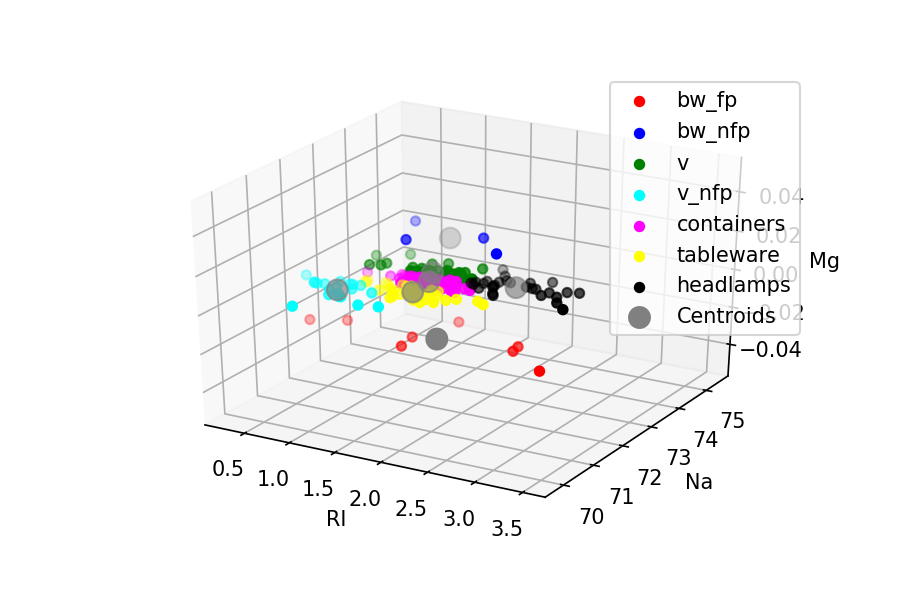
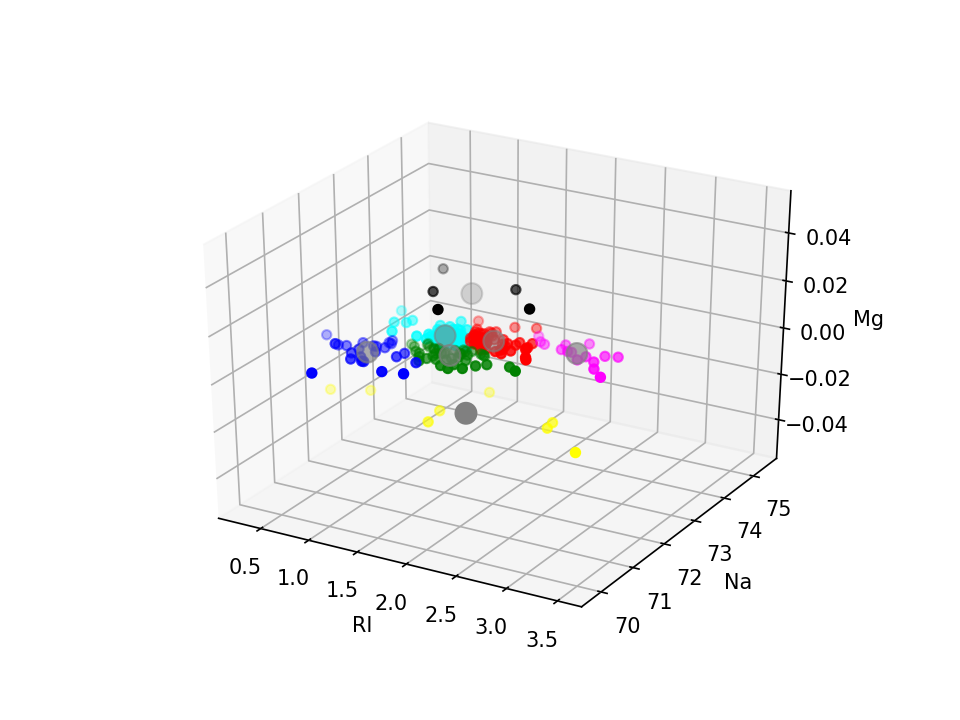
last changes

diff --git a/glassProj/glassApp/views.py b/glassProj/glassApp/views.py
@@ -23,6 +23,8 @@ class KNN:
         self.d_metric = d_metric
         self.d_metric_to_fn = {
             'euclidean': self.euclidean,
+            'manhattan': self.manhattan,
+            'minkowski': self.minkowski
         }
         self.p = p
 
@@ -30,10 +32,19 @@ class KNN:
         self.X = np.copy(X)
         self.y = np.copy(y)
 
+    def manhattan(self, x_test):
+        return np.sum(np.abs(self.X - x_test), axis=-1)
+
     def euclidean(self, x_test):
         sq_diff = (self.X - x_test) ** 2
         return np.sqrt(np.sum(sq_diff, axis=-1))
  
+    def minkowski(self, x_test):
+        abs_diff = np.abs(self.X - x_test)
+        sum_p_diff = np.sum(abs_diff ** self.p, axis=-1)
+        pth_root = sum_p_diff ** (1 / self.p)
+        return pth_root
+
     def distance(self, x_test):
         return self.d_metric_to_fn[self.d_metric](x_test)
 
@@ -75,7 +86,7 @@ class KNN:
 # pickle load end
 
 # create model
-knn = KNN(k=3, d_metric='euclidean')
+knn = KNN(k=3, d_metric='manhattan')
 knn.fit(data, labels)
 
 # ------------------------------------------------------------------------index function
